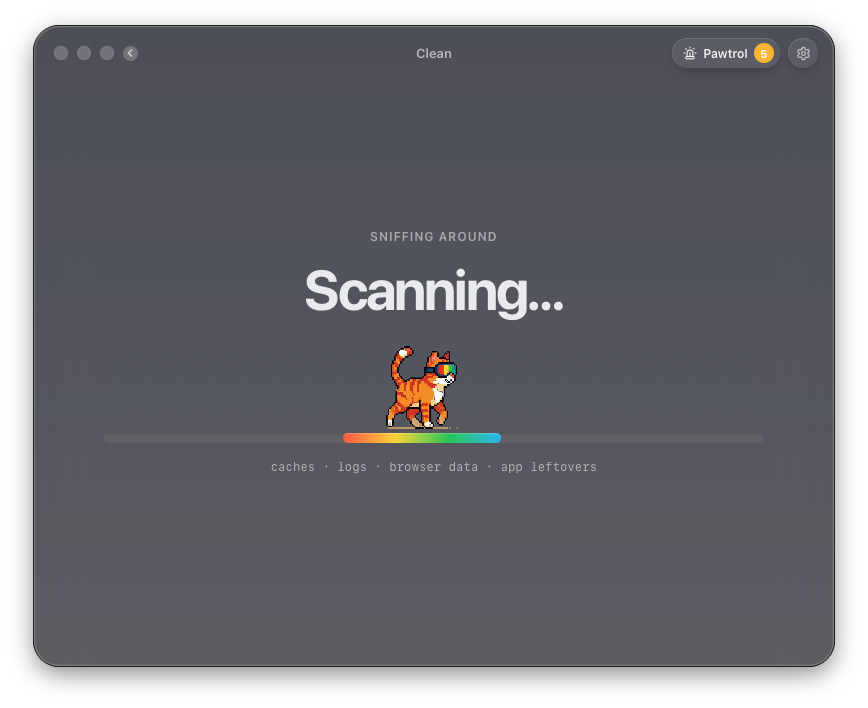
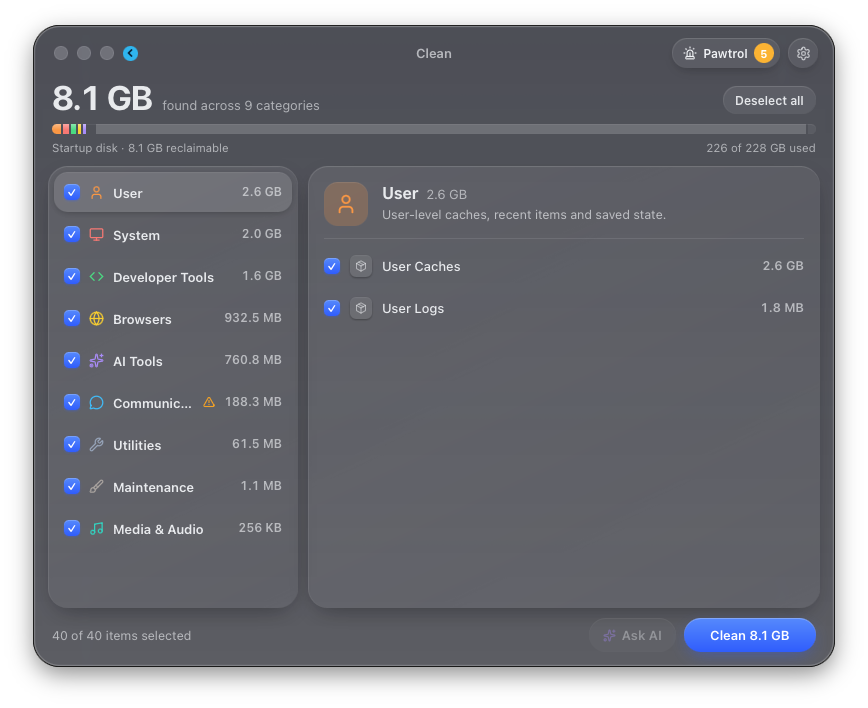
site: show real Clean scan results

diff --git a/site/index.html b/site/index.html
@@ -971,7 +971,7 @@
 
       <div class="gal-stage">
         <figure class="gal-panel is-active" role="tabpanel" id="panel-clean" aria-labelledby="tab-clean">
-          <img src="assets/screens/clean.png" alt="Kyra's Clean module mid-scan, with the cat walking along the progress bar" width="912" height="752" loading="lazy" />
+          <img src="assets/screens/clean.png" alt="Kyra's Clean results: 8.1 GB found across 9 categories, with each cache listed before anything is removed" width="868 708 " height="" loading="lazy" />
           <figcaption class="gal-cap"><strong>Clean.</strong> Kyra sniffs out caches, logs and leftovers across 330+ rules.</figcaption>
         </figure>
         <figure class="gal-panel" role="tabpanel" id="panel-analyze" aria-labelledby="tab-analyze">
